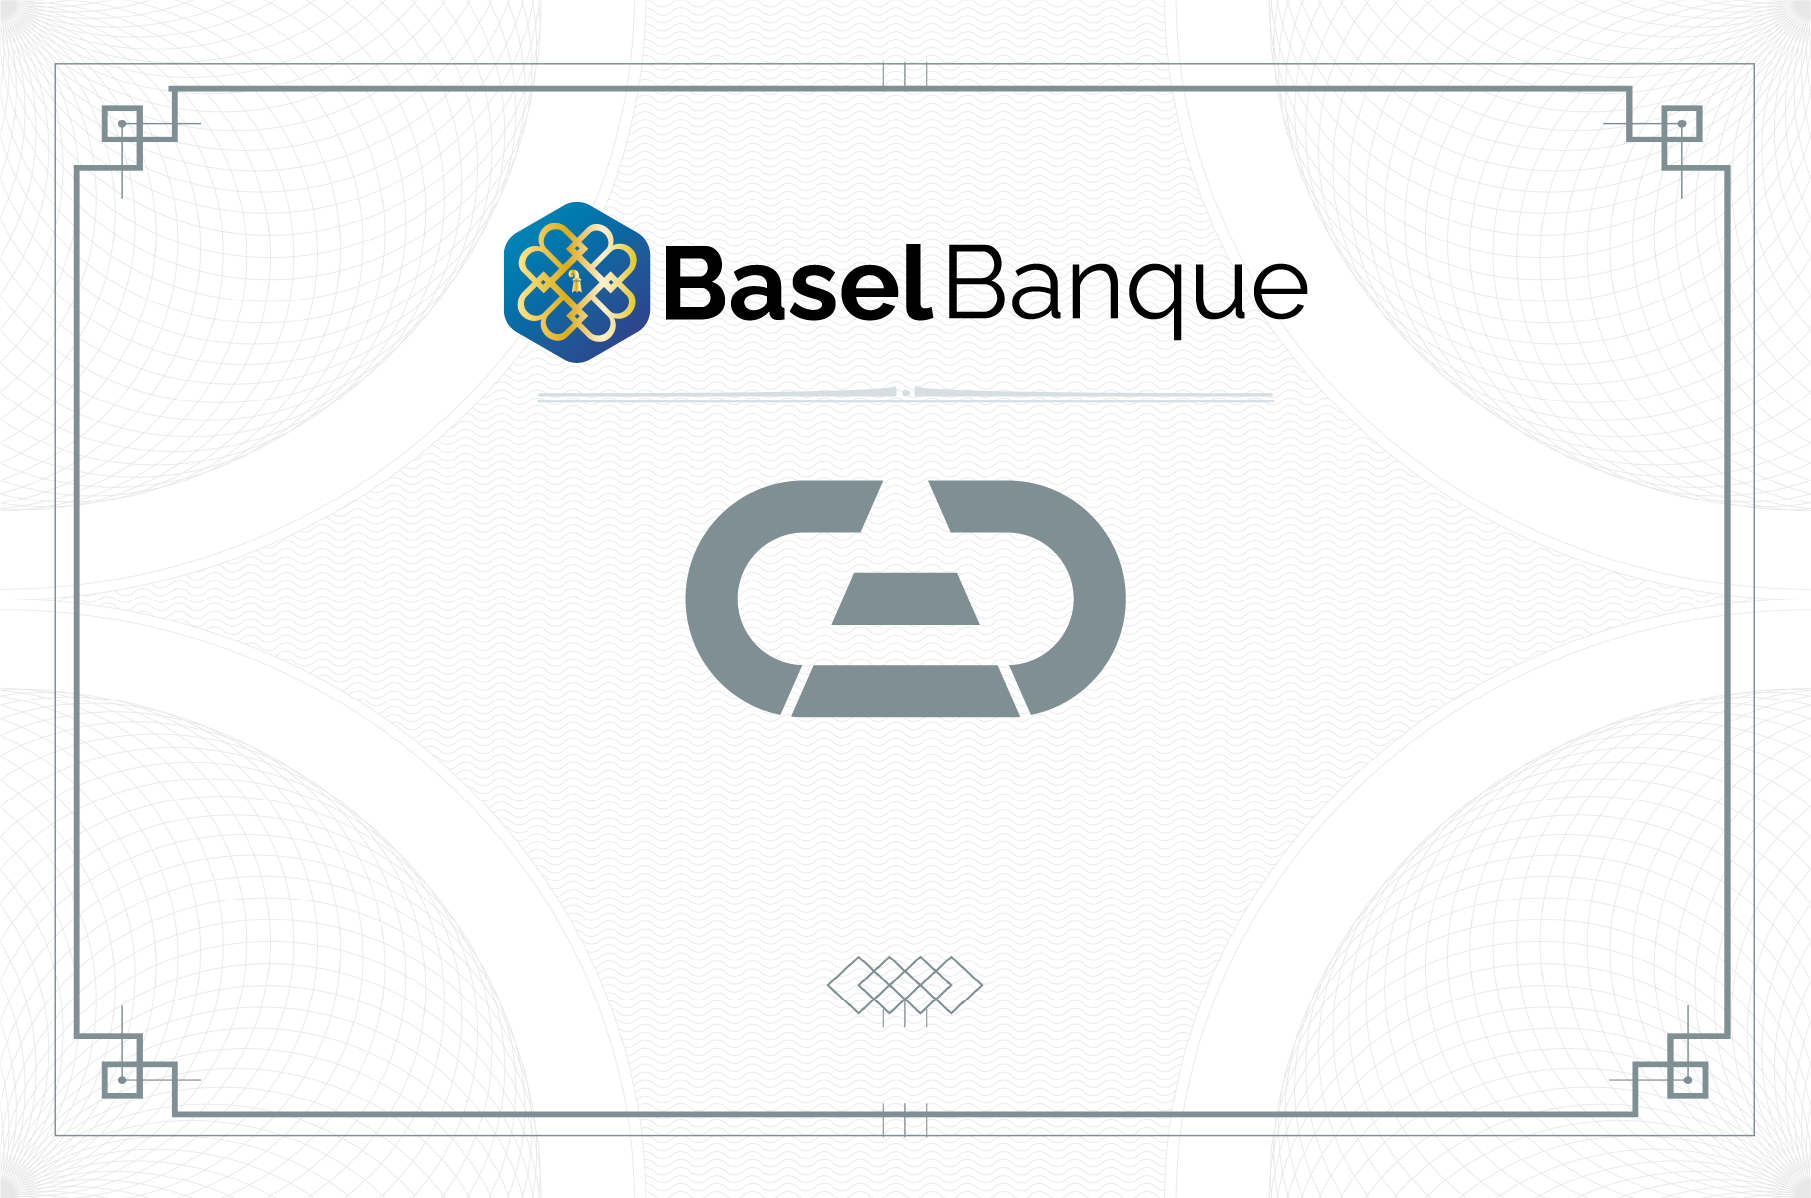
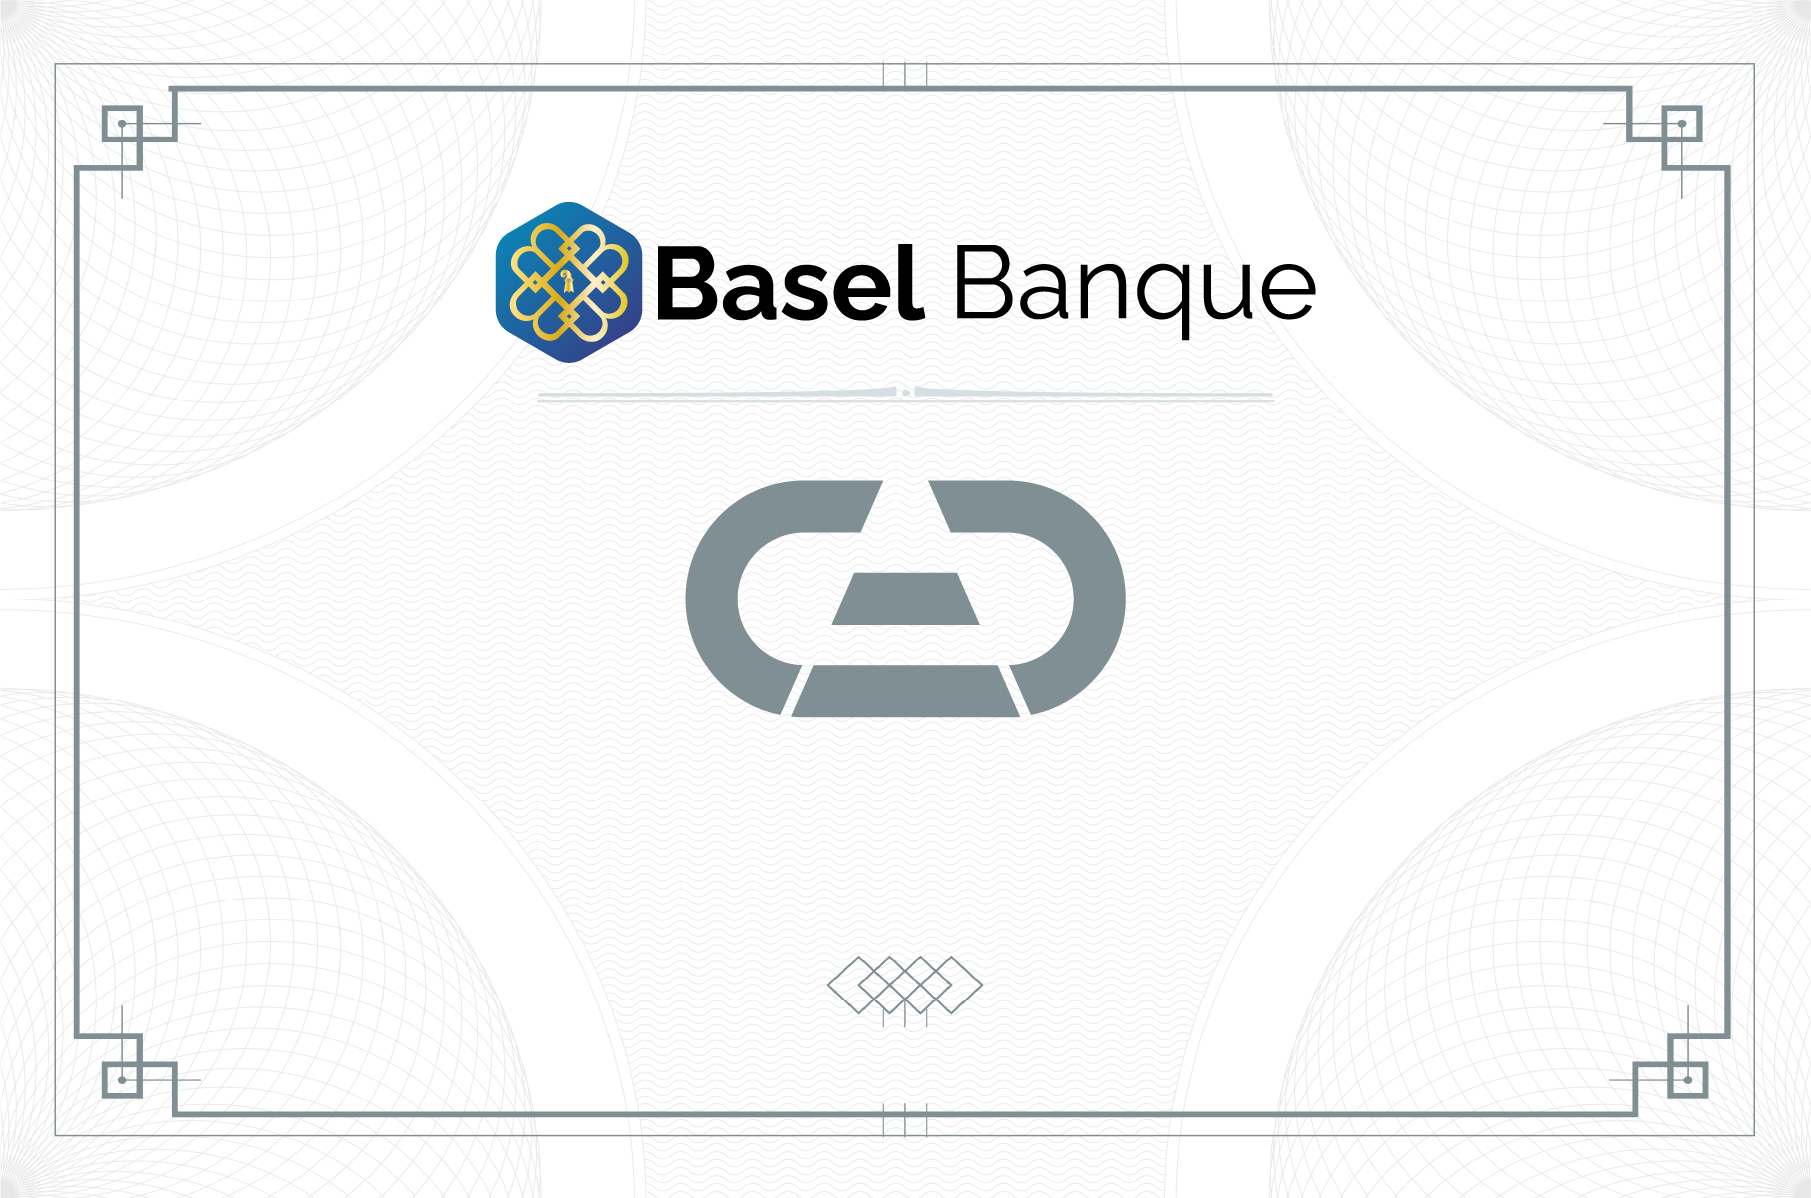
Actualizo la img coorporativa

Changed region(s): [[0.2474, 0.1544, 0.7421, 0.3088]]

diff --git a/index.html b/index.html
@@ -80,7 +80,7 @@
 						<div class="col-md-8 col-md-offset-2 intro-text">
 							<h1 class="justify-content-center">
 								<img
-									src="img/logo_white.png"
+									src="img/logo_white_animated.gif"
 									class="logo_animated"
 									alt="Basel Banque Logo"
 								/>
